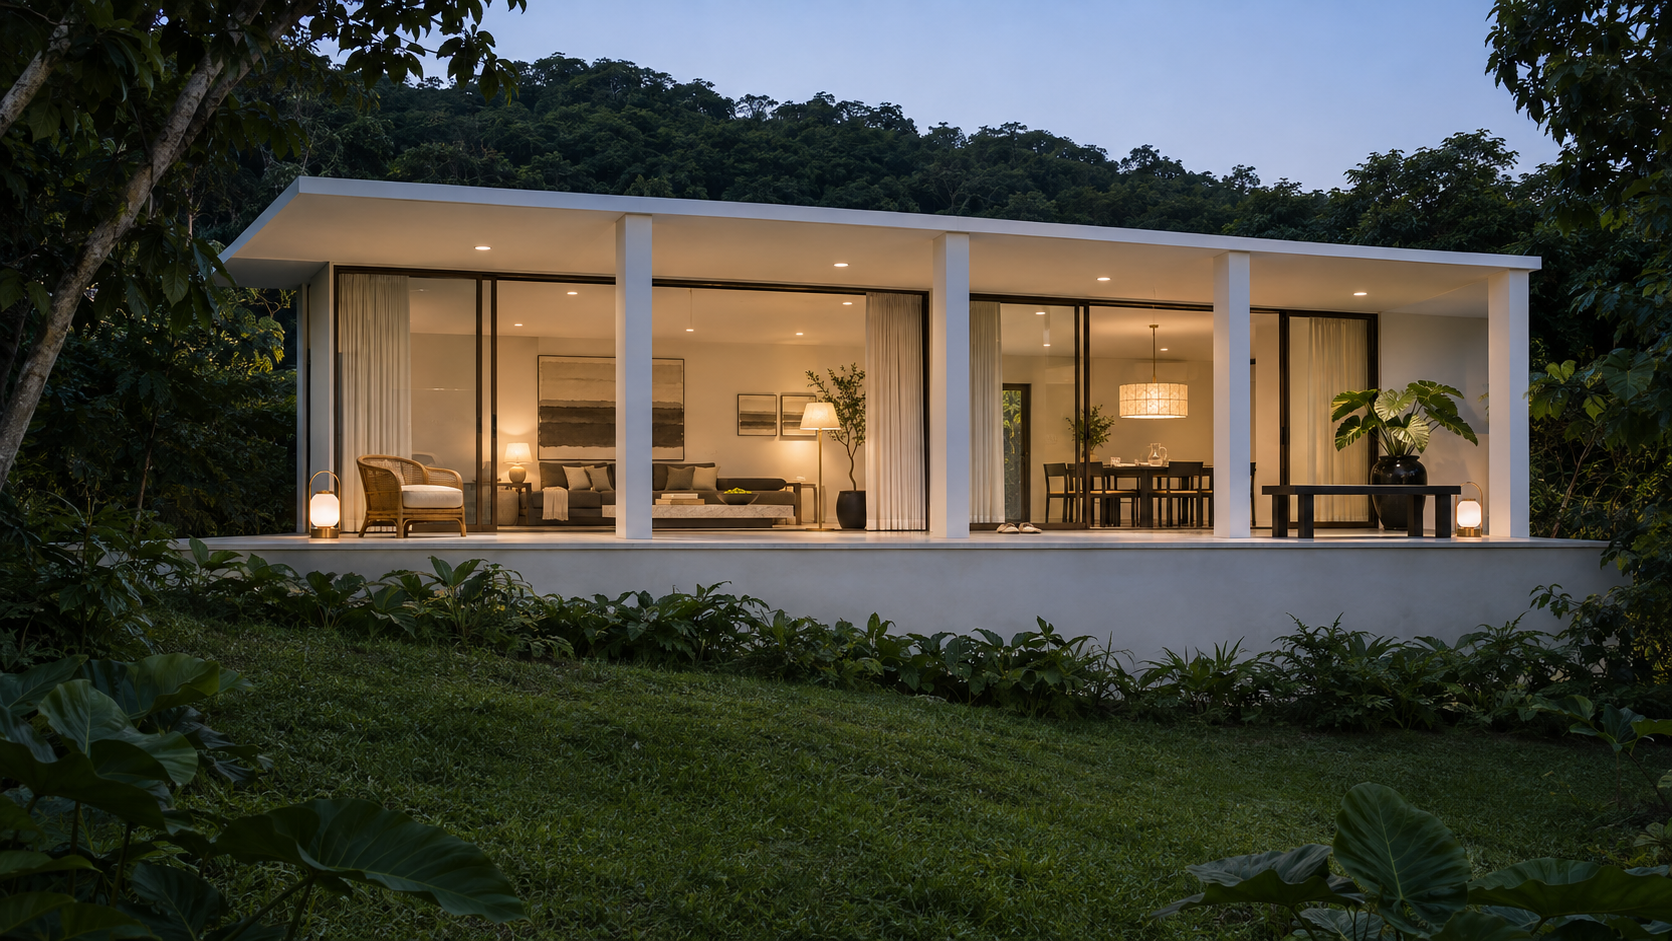
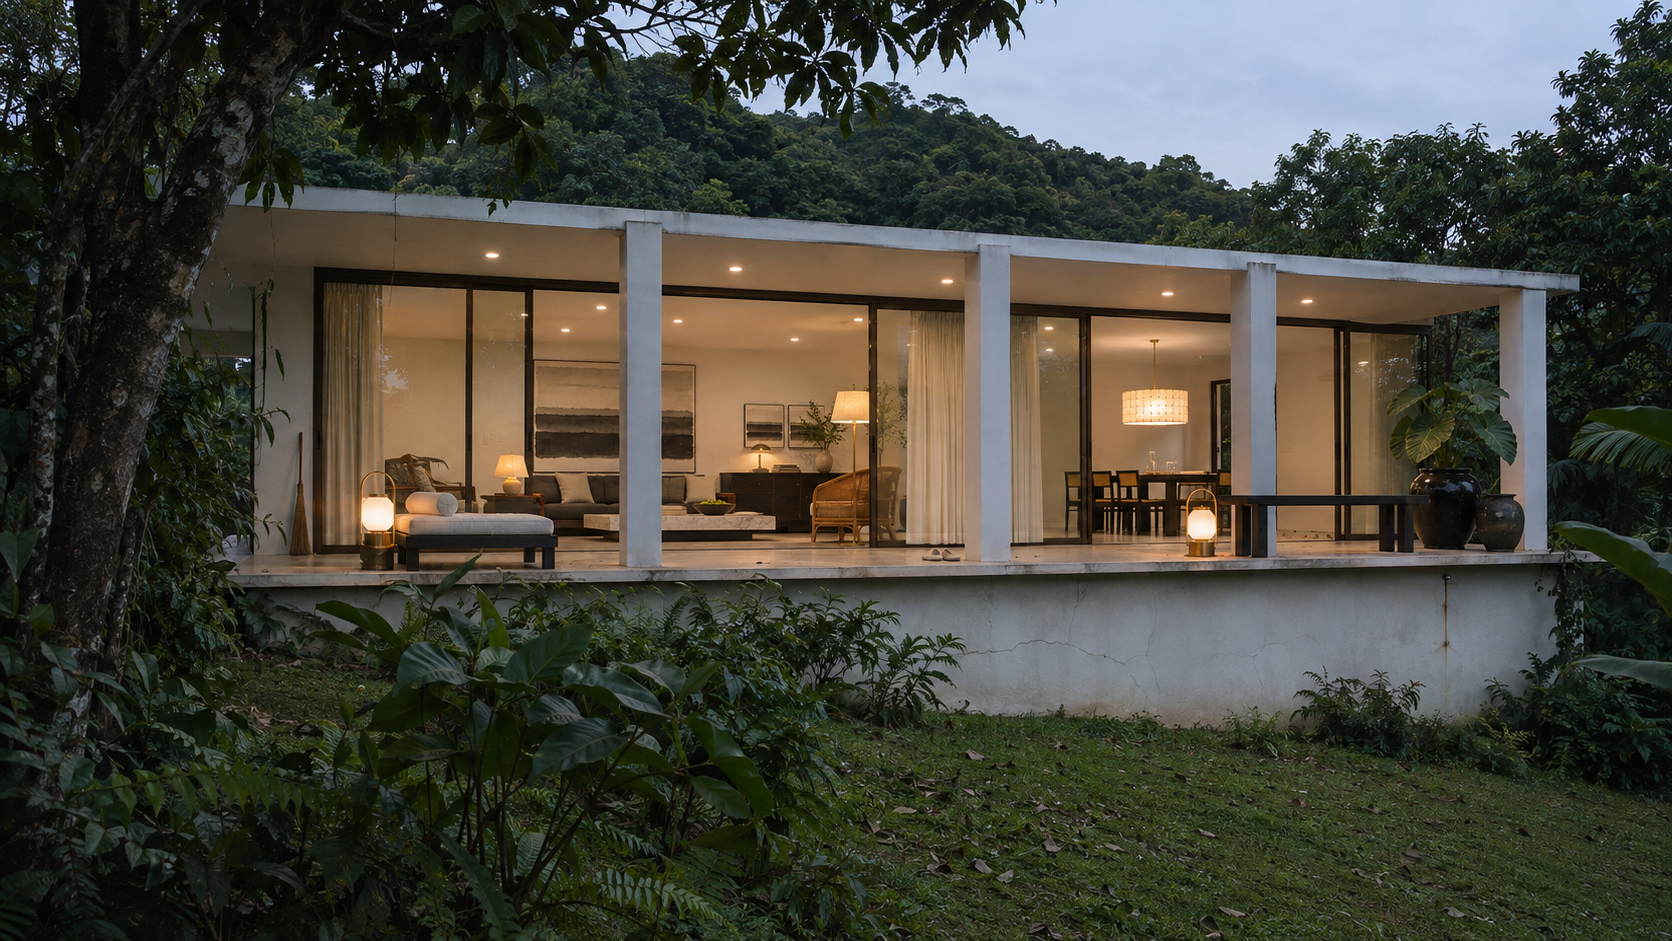
design: Lilim terrace and garden frames redone for realism; render check added to pre-show review

diff --git a/docs/content/image-briefs.md b/docs/content/image-briefs.md
@@ -105,6 +105,12 @@ Status: **Decided on delegation** on 2026-11-16. Aedwon caught moved outlets, an
 
 State the result when showing a set: what was checked, what was regenerated, and anything left for his eye.
 
+**0. Real photograph, not a render** (every frame, checked first)
+
+- Judge it as a stranger would at a glance: does it look like a 3D render? If the lead has to say "this one looks the most like a render," it fails. Regenerate; do not show it with a caveat.
+- Render tells: neon or uniform greens, plastic-looking plants, perfect symmetry and centering, haloed or glowing light, spotless surfaces, a building that reads as a model, a sky with no detail.
+- Exterior and outdoor frames fail most often. Give them a realism block (muted true color, grain, wear, foliage overlapping the building, an off-axis camera) and attach an approved real-looking photo of the same site as the quality reference. (Aedwon rejected the first Lilim terrace and garden frames as obviously fake, 2026-11-16.)
+
 **1. Before and after match** (pairs)
 
 - Count in both frames: sockets, switches, cooling units, fans, ceiling points, downlights, doors, door handles, window panels, columns. Same count, same place, same type.
